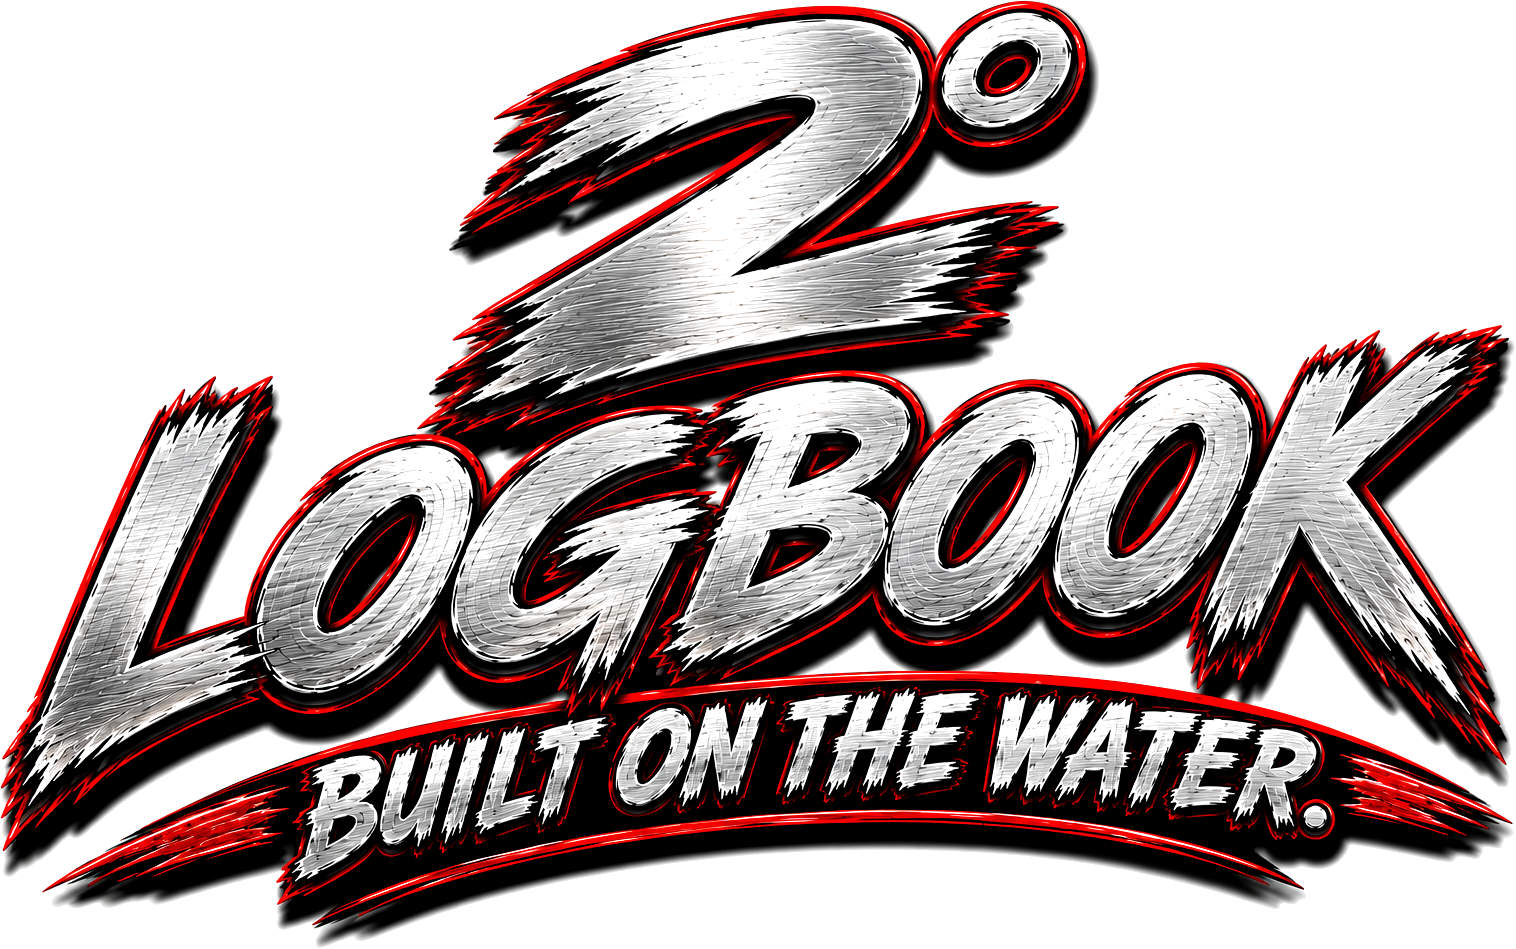
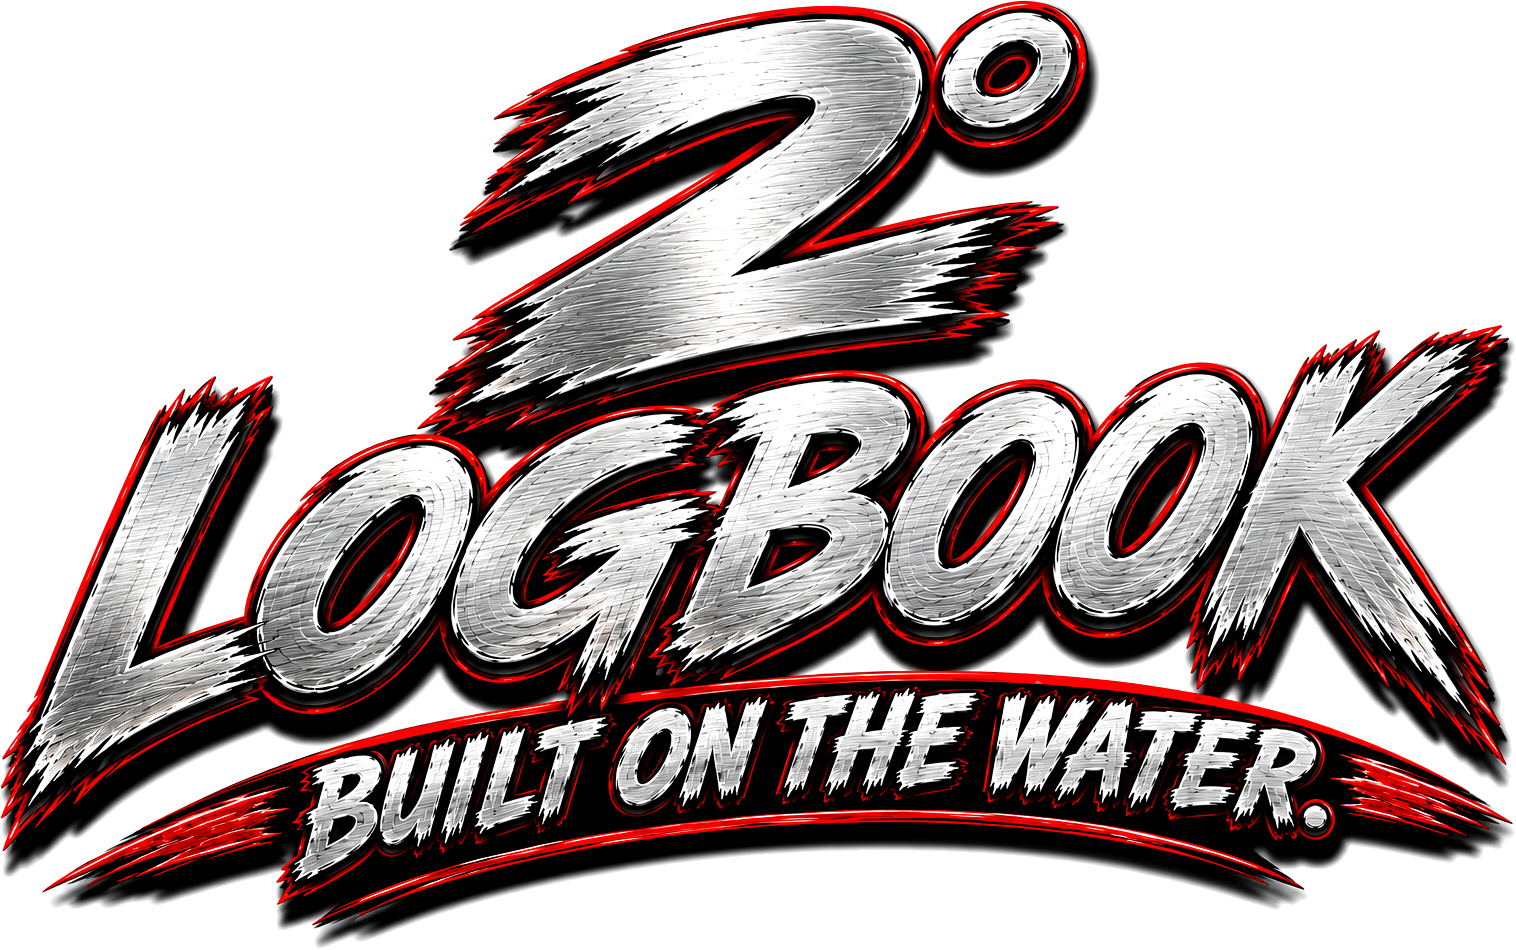
Add files via upload

diff --git a/style.css b/style.css
@@ -1437,76 +1437,113 @@ main {
   }
 }
 
-/* Build 35 - Official 2° Brand Pack + App Header */
-.official-brand-header{
-  height:168px !important;
-  min-height:168px !important;
-  max-height:168px !important;
-  padding:12px 10px !important;
-  margin:0 !important;
+/* Build 36 - Fixed Official Logo Header */
+html,
+body{
+  width:100% !important;
+  max-width:100% !important;
+  overflow-x:hidden !important;
+}
+
+*{
+  box-sizing:border-box !important;
+}
+
+.brand-hero,
+.brand-hero-logo,
+.brand-lockup,
+.clean-brand-logo,
+.clean-brand-title,
+.clean-brand-subtitle,
+.top-brand-logo,
+.brand-title,
+.brand-subtitle,
+.app-header h1,
+.app-header p{
+  display:none !important;
+  visibility:hidden !important;
+  width:0 !important;
+  height:0 !important;
+  max-width:0 !important;
+  max-height:0 !important;
+  overflow:hidden !important;
+}
+
+.official-logo-header{
   display:flex !important;
   align-items:center !important;
   justify-content:center !important;
-  text-align:center !important;
+  width:100% !important;
+  max-width:100vw !important;
+  height:142px !important;
+  min-height:142px !important;
+  max-height:142px !important;
+  padding:10px 12px !important;
+  margin:0 !important;
   overflow:hidden !important;
   background:
-    radial-gradient(circle at 50% 48%, rgba(220,0,0,.17), transparent 38%),
-    radial-gradient(circle at 50% 64%, rgba(202,162,74,.10), transparent 52%),
+    radial-gradient(circle at 50% 50%, rgba(220,0,0,.14), transparent 35%),
     linear-gradient(180deg, #020805 0%, #071409 100%) !important;
   border-bottom:1px solid rgba(202,162,74,.24) !important;
 }
 
-.official-brand-header::before,
-.official-brand-header::after{
+.official-logo-header::before,
+.official-logo-header::after{
   display:none !important;
   content:none !important;
 }
 
-.official-brand-lockup{
+.official-logo-img{
   display:block !important;
-  width:min(94vw, 500px) !important;
-  max-width:94vw !important;
+  width:auto !important;
   height:auto !important;
-  max-height:142px !important;
+  max-width:94vw !important;
+  max-height:118px !important;
   object-fit:contain !important;
+  object-position:center !important;
+  margin:0 auto !important;
+  padding:0 !important;
   filter:
-    drop-shadow(0 0 15px rgba(220,0,0,.34))
-    drop-shadow(0 8px 14px rgba(0,0,0,.65)) !important;
-}
-
-.clean-brand-logo,
-.clean-brand-title,
-.clean-brand-subtitle,
-.app-header h1,
-.app-header p,
-.brand-hero,
-.brand-lockup,
-.brand-hero-logo{
-  display:none !important;
+    drop-shadow(0 0 12px rgba(220,0,0,.28))
+    drop-shadow(0 7px 12px rgba(0,0,0,.55)) !important;
 }
 
 .nav-bar{
   margin-top:0 !important;
+  position:sticky !important;
+  top:0 !important;
+  z-index:30 !important;
+  overflow-x:auto !important;
+  overflow-y:hidden !important;
+  -webkit-overflow-scrolling:touch !important;
+  background:rgba(2,9,5,.90) !important;
+  backdrop-filter:blur(14px) !important;
+  border-top:1px solid rgba(202,162,74,.14) !important;
+  border-bottom:1px solid rgba(202,162,74,.22) !important;
 }
 
 main{
   padding-top:14px !important;
 }
 
+.page{
+  padding-top:0 !important;
+}
+
 body::before{
-  opacity:.035 !important;
+  opacity:.03 !important;
 }
 
 @media(max-width:520px){
-  .official-brand-header{
-    height:154px !important;
-    min-height:154px !important;
-    max-height:154px !important;
-    padding:10px 8px !important;
-  }
-  .official-brand-lockup{
-    width:96vw !important;
-    max-width:96vw !important;
+  .official-logo-header{
+    height:132px !important;
+    min-height:132px !important;
     max-height:132px !important;
+    padding:8px 8px !important;
+  }
+
+  .official-logo-img{
+    max-width:96vw !important;
+    max-height:108px !important;
   }
 }

diff --git a/index.html b/index.html
@@ -1,7 +1,7 @@
 <!doctype html>
 <html lang="en">
 <head>
-  <meta name="build-version" content="2-degree-logbook-build-35">
+  <meta name="build-version" content="2-degree-logbook-build-36">
   <meta charset="UTF-8" />
   <meta name="viewport" content="width=device-width, initial-scale=1.0" />
   <title>2° Logbook</title>
@@ -13,8 +13,8 @@
   <meta name="apple-mobile-web-app-status-bar-style" content="black-translucent" />
 </head>
 <body>
-  <header class="app-header official-brand-header">
-    <img class="official-brand-lockup" src="brand-header-official.png?v=35" alt="2° Logbook - Built on the water.">
+  <header class="app-header official-logo-header">
+    <img class="official-logo-img" src="brand-header-official.png?v=36" alt="2° Logbook - Built on the water.">
   </header>
 
   <nav class="nav-bar">
@@ -214,26 +214,26 @@
     <section id="photos" data-page class="page"><h2>Catch Photos</h2><div id="photoGallery"></div></section>
   </main>
 
-  <script src="storage.js?v=35"></script>
-  <script src="trips.js?v=35"></script>
-  <script src="baits.js?v=35"></script>
-  <script src="catches.js?v=35"></script>
-  <script src="stats.js?v=35"></script>
-  <script src="patterns.js?v=35"></script>
-  <script src="reports.js?v=35"></script>
-  <script src="recommendations.js?v=35"></script>
-  <script src="brain.js?v=35"></script>
-  <script src="coach.js?v=35"></script>
-  <script src="intelligence.js?v=35"></script>
-  <script src="water.js?v=35"></script>
-  <script src="tournament.js?v=35"></script>
-  <script src="tourneyai.js?v=35"></script>
-  <script src="timeline.js?v=35"></script>
-  <script src="predictor.js?v=35"></script>
-  <script src="seasonal.js?v=35"></script>
-  <script src="engine.js?v=35"></script>
-  <script src="rotation.js?v=35"></script>
-  <script src="ui.js?v=35"></script>
-  <script src="app.js?v=35"></script>
+  <script src="storage.js?v=36"></script>
+  <script src="trips.js?v=36"></script>
+  <script src="baits.js?v=36"></script>
+  <script src="catches.js?v=36"></script>
+  <script src="stats.js?v=36"></script>
+  <script src="patterns.js?v=36"></script>
+  <script src="reports.js?v=36"></script>
+  <script src="recommendations.js?v=36"></script>
+  <script src="brain.js?v=36"></script>
+  <script src="coach.js?v=36"></script>
+  <script src="intelligence.js?v=36"></script>
+  <script src="water.js?v=36"></script>
+  <script src="tournament.js?v=36"></script>
+  <script src="tourneyai.js?v=36"></script>
+  <script src="timeline.js?v=36"></script>
+  <script src="predictor.js?v=36"></script>
+  <script src="seasonal.js?v=36"></script>
+  <script src="engine.js?v=36"></script>
+  <script src="rotation.js?v=36"></script>
+  <script src="ui.js?v=36"></script>
+  <script src="app.js?v=36"></script>
 </body>
 </html>

diff --git a/app.js b/app.js
@@ -1,1 +1,1 @@
-const App=(()=>{let initialized=false;function init(){if(initialized)return;initialized=true;Storage.load();Trips.initialize();Baits.initialize();Catches.initialize();Stats.initialize();Patterns.initialize();Reports.initialize();Recommendations.initialize();Brain.initialize();Coach.initialize();Intelligence.initialize();Water.initialize();Tournament.initialize();TourneyAI.initialize();Timeline.initialize();Predictor.initialize();Seasonal.initialize();Engine.initialize();Rotation.initialize();UI.initialize();console.log("2° Logbook Ready")}function reload(){initialized=false;init()}function version(){return"3.0 Build 35"}return{init,reload,version}})();document.addEventListener("DOMContentLoaded",()=>App.init());
+const App=(()=>{let initialized=false;function init(){if(initialized)return;initialized=true;Storage.load();Trips.initialize();Baits.initialize();Catches.initialize();Stats.initialize();Patterns.initialize();Reports.initialize();Recommendations.initialize();Brain.initialize();Coach.initialize();Intelligence.initialize();Water.initialize();Tournament.initialize();TourneyAI.initialize();Timeline.initialize();Predictor.initialize();Seasonal.initialize();Engine.initialize();Rotation.initialize();UI.initialize();console.log("2° Logbook Ready")}function reload(){initialized=false;init()}function version(){return"3.0 Build 36"}return{init,reload,version}})();document.addEventListener("DOMContentLoaded",()=>App.init());

diff --git a/README.md b/README.md
@@ -1,16 +1,14 @@
-# 2° Logbook v3 Build 35 - Official Brand Pack
+# 2° Logbook v3 Build 36 - Fixed Official Logo Header
 
 Upload all files in this ZIP to the root of your GitHub repository.
 
 What changed:
-- Added the official 2° Logbook logo selected by Tyler.
-- Created transparent app-ready brand assets:
+- Uses the official 2° Logbook logo as a real img tag, not a CSS background.
+- Entire logo is forced to fit with object-fit: contain.
+- Compact fixed-height header.
+- Removed old giant hero/banner logic.
+- Added official app assets:
   - brand-official-full.png
   - brand-header-official.png
-  - brand-horizontal.png
   - brand-icon-2degree.png
-  - brand-preview-dark.png
-- Replaced the app header with the official logo lockup.
-- Removed the giant banner/hero logo approach.
-- Updated manifest icon reference.
-- Kept all app features from the previous build.
+- Keeps all app features from the previous stable build.